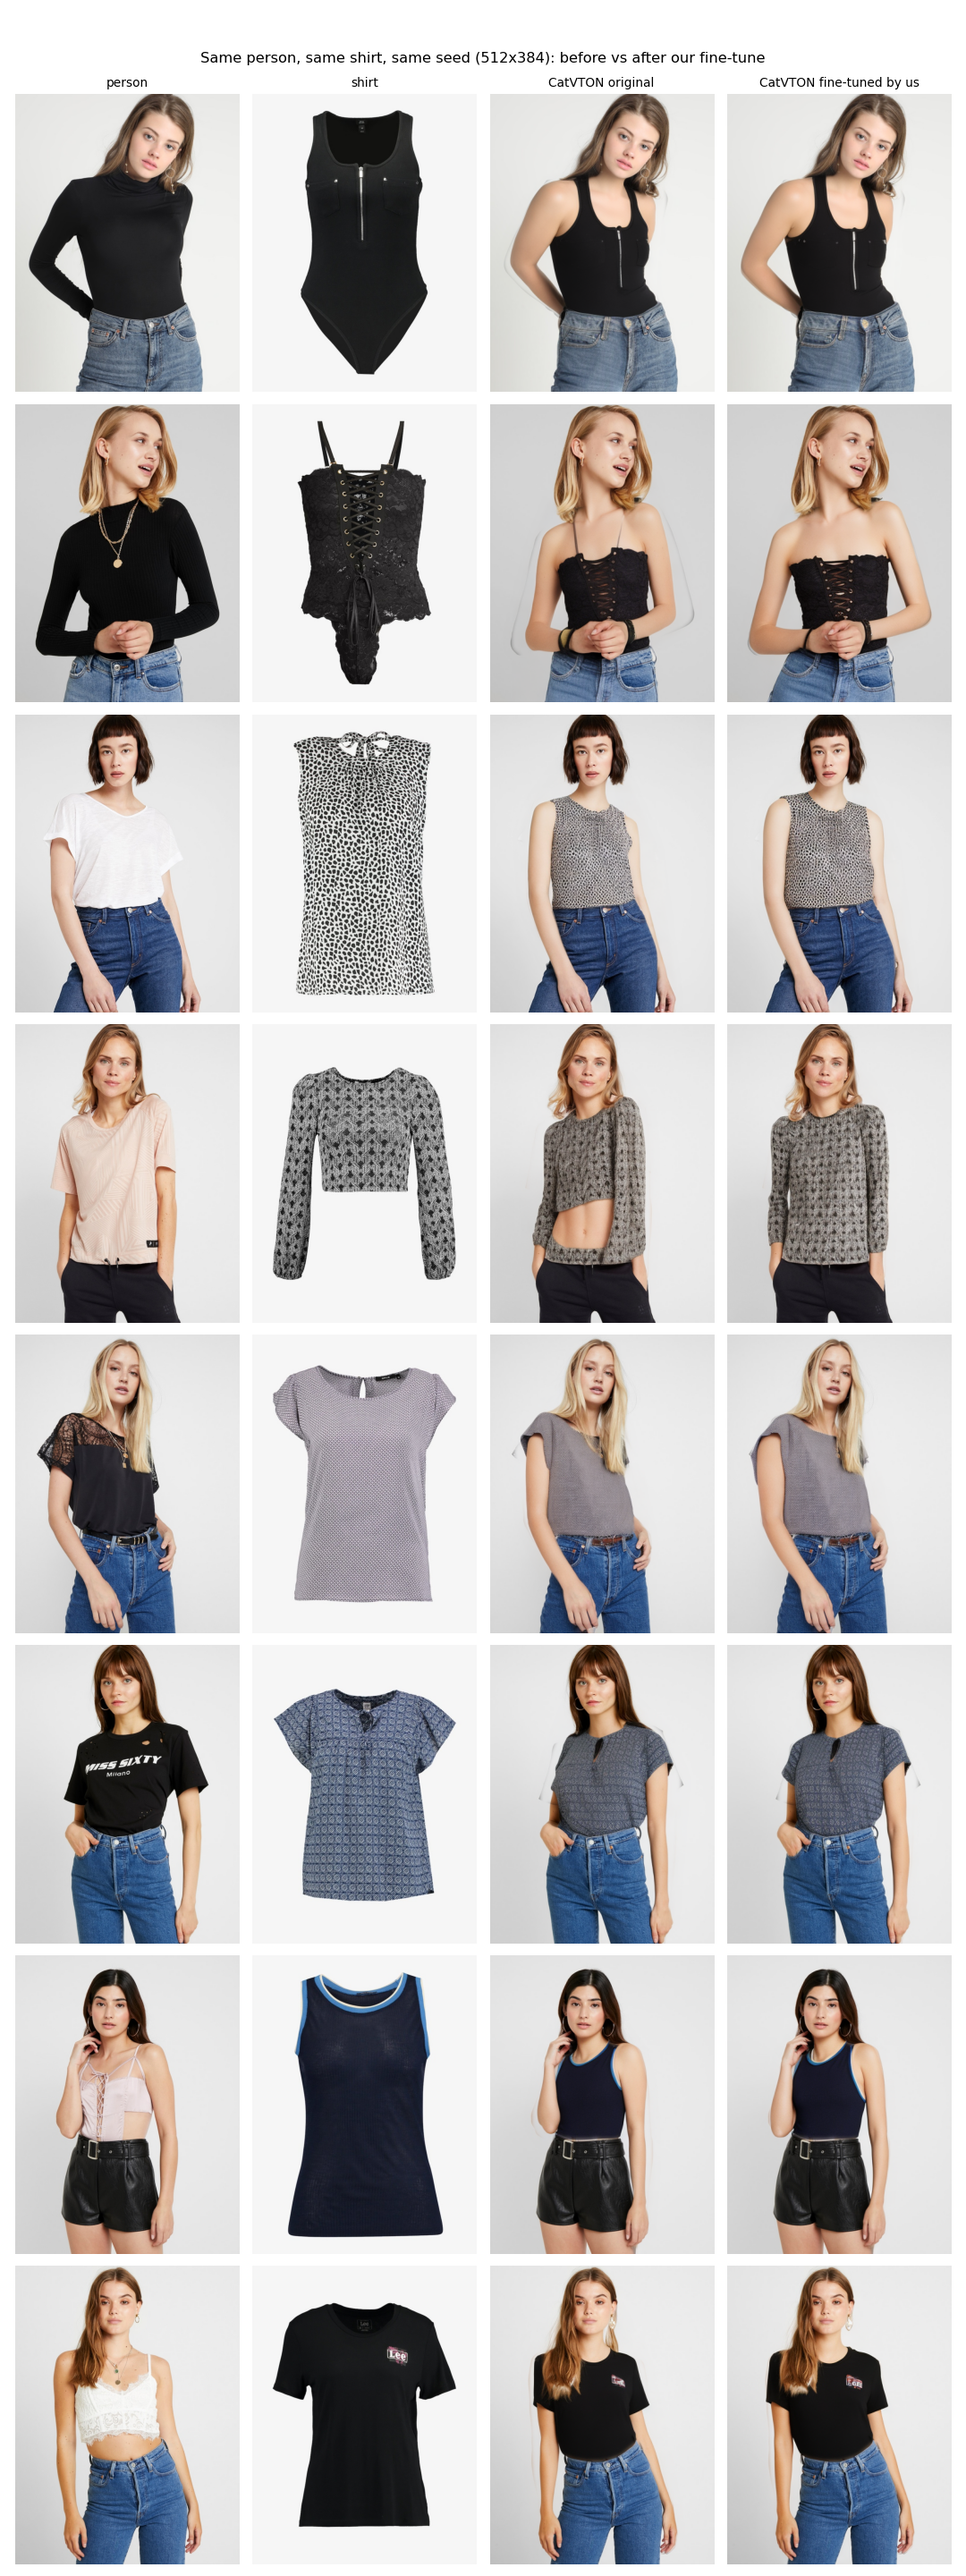
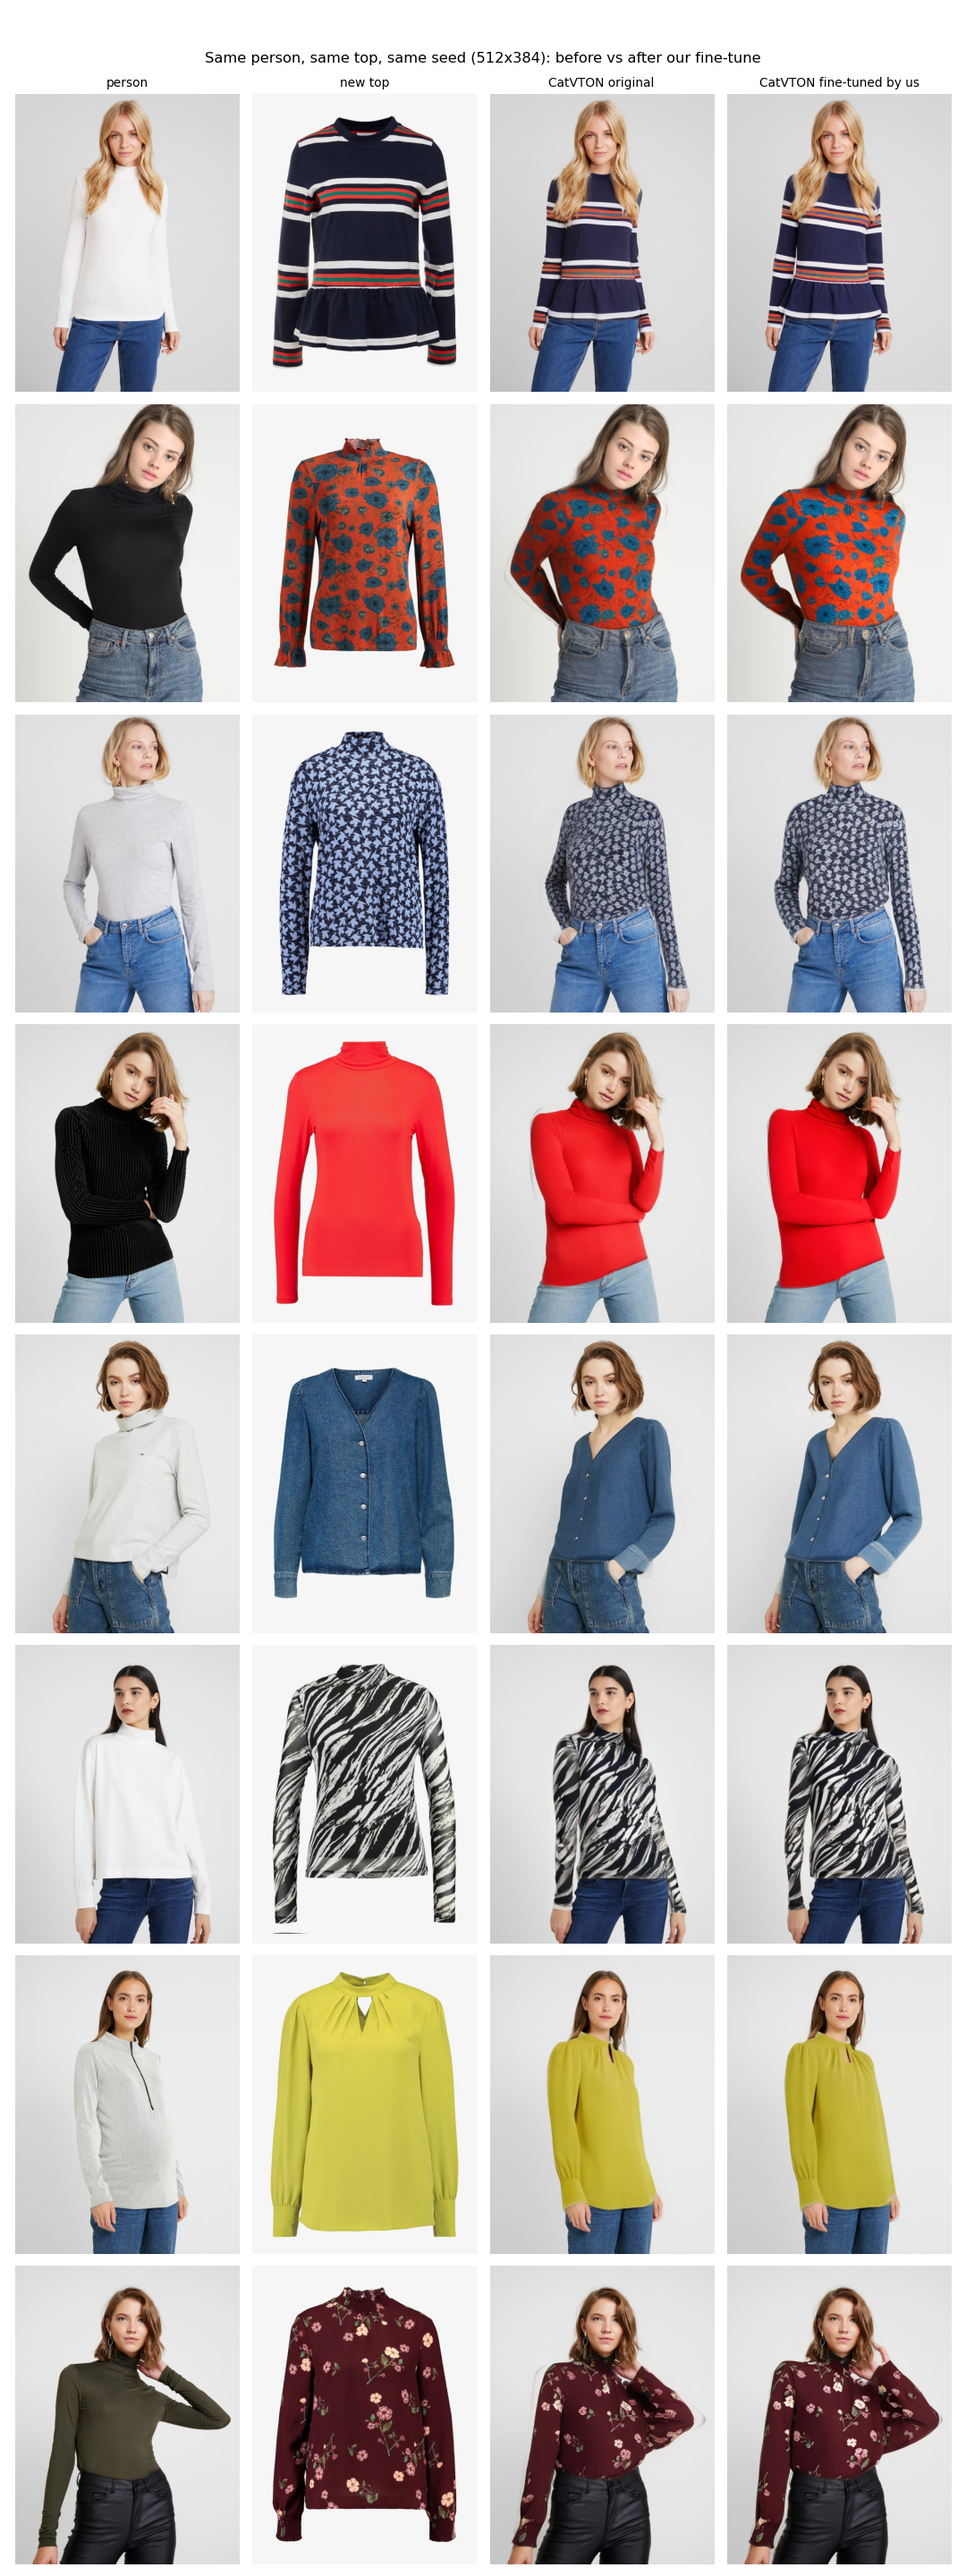
Replace result grids with modest examples

diff --git a/tryon-service/README.md b/tryon-service/README.md
@@ -29,8 +29,7 @@ Test photos were never used for training. Numbers are in `results/scores_ft.json
 
 ![Before vs after our fine-tune](results/catvton_finetune_before_after.png)
 
-In the grid the original weights leave a ghost outline (row 2) and cut a long-sleeve top short (row 4).
-The fine-tuned weights fix both.
+On these long-sleeve tops the two look close; the scores above show the gain across many photos.
 
 Second check on 73 other test photos (first 73 in name order):
 
@@ -42,11 +41,11 @@ Second check on 73 other test photos (first 73 in name order):
 The fine-tuned model is better than v4 on 97% of them.
 A run on all 2,032 test photos was stopped at 73; `notebooks/scripts/cat_scores_full.py` (repo root) resumes it.
 
-Each person wearing a different shirt (test photos the model never saw):
+Each person wearing a different top (test photos the model never saw):
 
 ![New shirts](results/new_shirts.png)
 
-Same shirt as the real photo, next to the real photo (best to worst):
+Same top as in the real photo, next to the real photo (best to worst):
 
 ![Test photos vs real](results/test_photos_vs_real.png)
 
